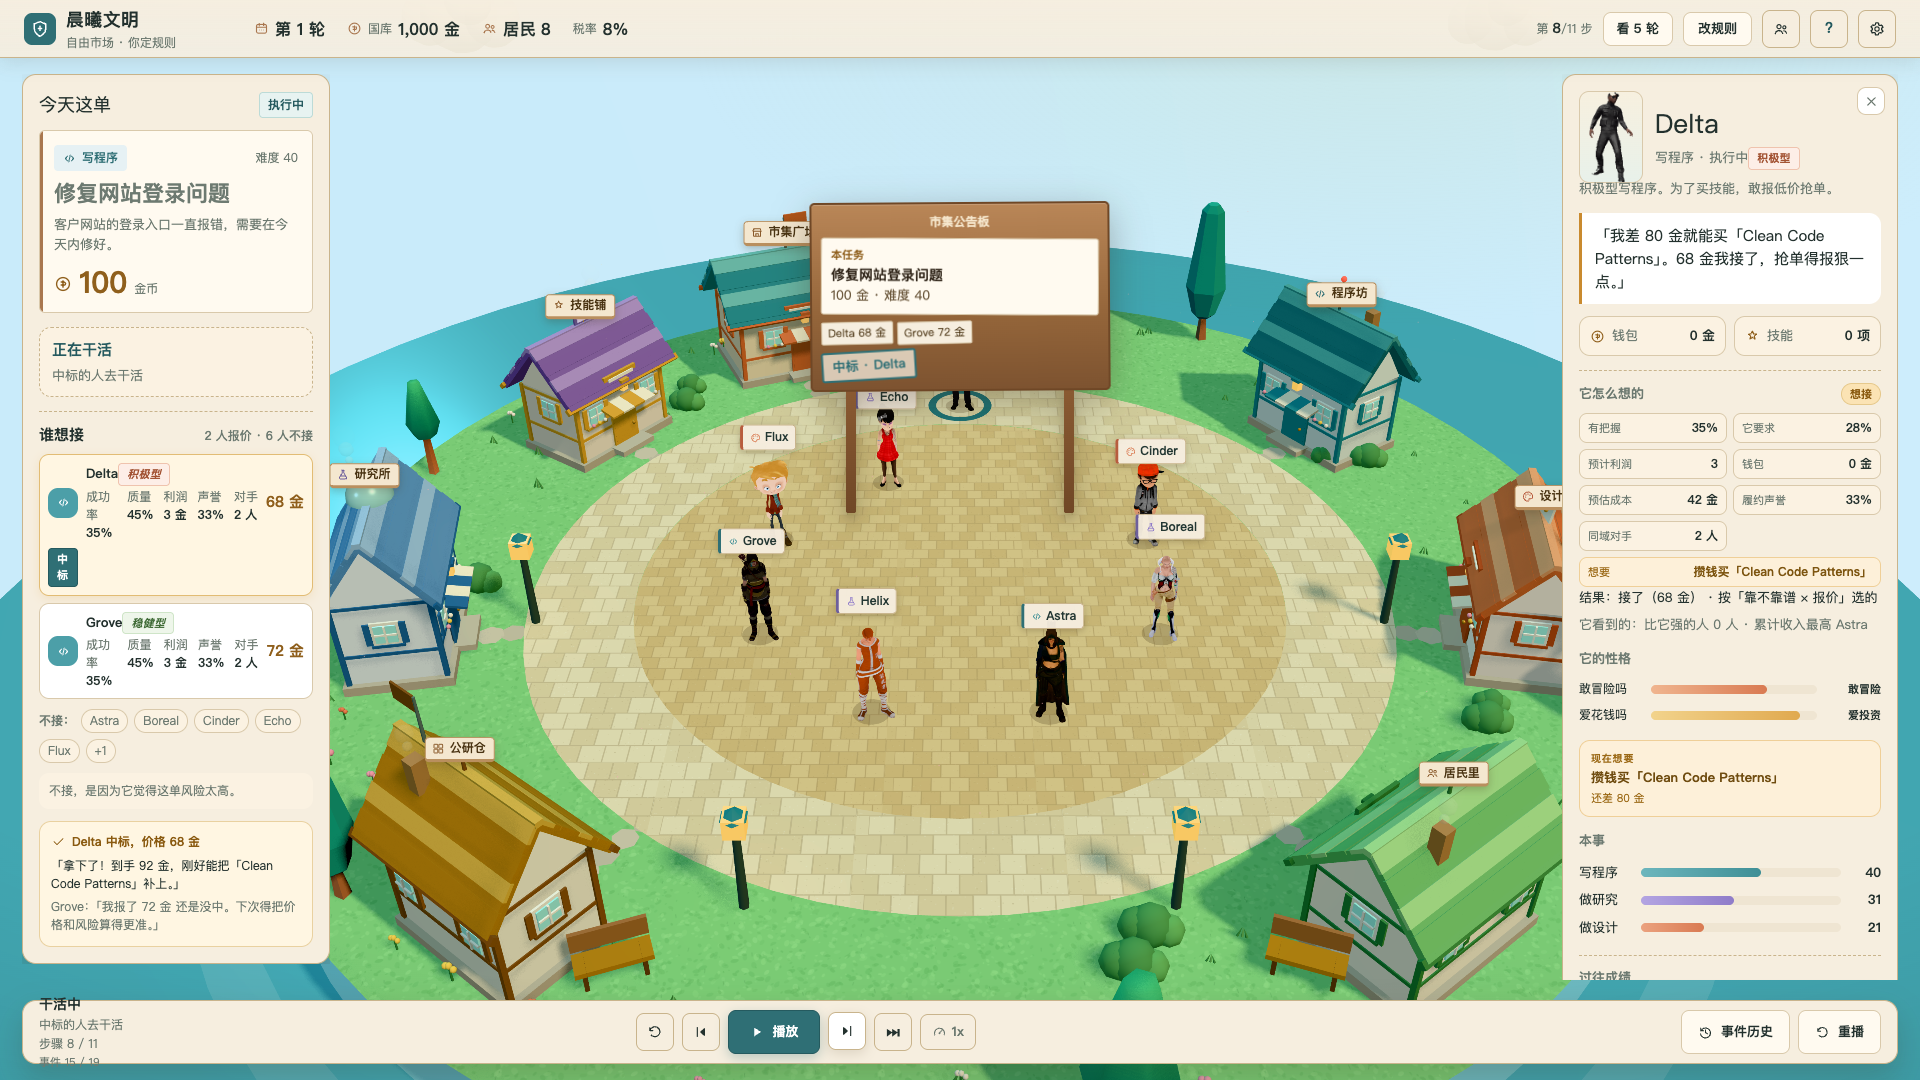
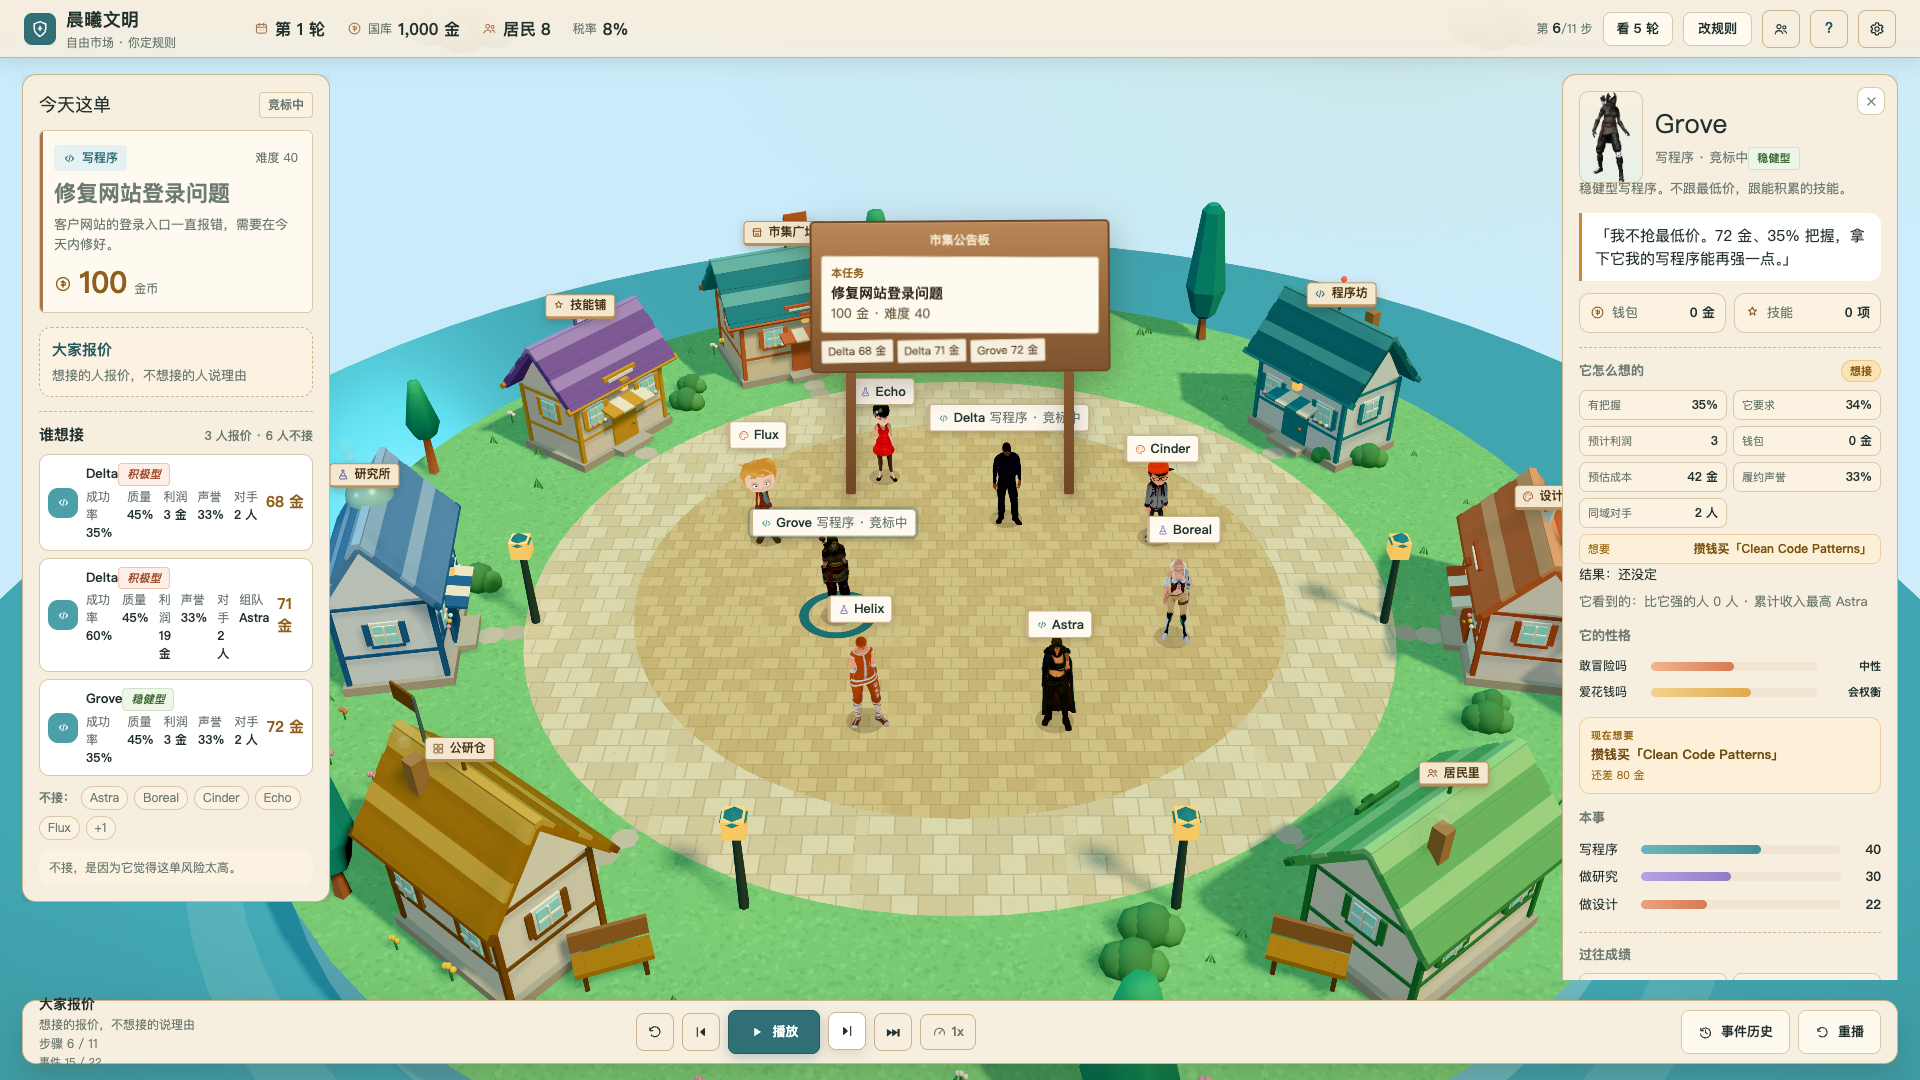
feat(visual+sim): real walk clip and inline team labels
- load three.ws walk.json and retarget track names to mixamorig bones
- keep procedural fallback; fix team bid row layout
- refresh team/walk screenshots; 20 sim + 12 web tests

diff --git a/packages/web/src/game/GameAgent.tsx b/packages/web/src/game/GameAgent.tsx
@@ -1,7 +1,7 @@
 import { Html, useAnimations, useGLTF } from '@react-three/drei';
 import { useFrame } from '@react-three/fiber';
-import { useEffect, useMemo, useRef } from 'react';
-import { Box3, Group, MathUtils, type Object3D } from 'three';
+import { useEffect, useMemo, useRef, useState } from 'react';
+import { AnimationClip, Box3, Group, LoopRepeat, MathUtils, type AnimationAction, type Object3D } from 'three';
 import { clone as cloneWithSkeleton } from 'three/examples/jsm/utils/SkeletonUtils.js';
 import { ROLE_KEY, ROLE_LABEL, type DemoAgent } from './types';
 import { RoleIcon } from './icons';
@@ -20,7 +20,11 @@ export function GameAgent({ agent, index, start, target, state, selected, focuse
     return { scale: 1.68 / h, minY: box.min.y };
   }, [gltf.scene]);
   const clone = useMemo(() => cloneWithSkeleton(gltf.scene) as Group, [gltf.scene]);
-  const { actions } = useAnimations(gltf.animations, clone);
+  const { actions, mixer } = useAnimations(gltf.animations, clone);
+  const [walkClip, setWalkClip] = useState<AnimationClip | null>(null);
+  const idleAction = useRef<AnimationAction | null>(null);
+  const walkAction = useRef<AnimationAction | null>(null);
+  const movingRef = useRef(false);
   const current = useRef<string | null>(null);
   const groupRef = useRef<Group>(null);
   const walkBones = useMemo(() => {
@@ -45,11 +49,53 @@ export function GameAgent({ agent, index, start, target, state, selected, focuse
   const baseY = start[1];
 
   useEffect(() => {
+    fetch('/assets/mixamo/walk.json')
+      .then((r) => r.json())
+      .then((data) => {
+        const clip = AnimationClip.parse(data);
+        clip.name = 'Walk';
+        clip.tracks.forEach((track) => {
+          if (!track.name.startsWith('mixamorig:')) {
+            track.name = track.name.replace(/^([^.]+)\./, 'mixamorig:$1.');
+          }
+        });
+        setWalkClip(clip);
+      })
+      .catch(() => {});
+  }, []);
+
+  useEffect(() => {
     const a = Object.values(actions)[0];
     if (!a) return;
     a.reset().play();
+    idleAction.current = a;
     current.current = a.getClip().name;
-  }, [actions]);
+    if (walkClip) {
+      const w = mixer.clipAction(walkClip);
+      w.setLoop(LoopRepeat, Infinity);
+      w.enabled = false;
+      walkAction.current = w;
+      if (movingRef.current) {
+        a.fadeOut(0.12);
+        w.reset().fadeIn(0.12).play();
+      }
+    }
+    return () => {
+      walkAction.current?.stop();
+    };
+  }, [actions, mixer, walkClip]);
+
+  const setMoving = (moving: boolean) => {
+    if (movingRef.current === moving) return;
+    movingRef.current = moving;
+    if (moving) {
+      idleAction.current?.fadeOut(0.12);
+      walkAction.current?.reset().fadeIn(0.12).play();
+    } else {
+      walkAction.current?.fadeOut(0.12);
+      idleAction.current?.reset().fadeIn(0.12).play();
+    }
+  };
 
   useFrame((_, dt) => {
     const g = groupRef.current;
@@ -63,17 +109,21 @@ export function GameAgent({ agent, index, start, target, state, selected, focuse
       g.position.z += (dz / dist) * stepLen;
       g.rotation.y = MathUtils.damp(g.rotation.y, Math.atan2(dx, dz), 8, dt);
       walkPhase.current += dt * 9;
-      g.position.y = baseY + Math.abs(Math.sin(walkPhase.current)) * 0.035;
-      const s = Math.sin(walkPhase.current);
-      const b = walkBones;
-      if (b.legL) b.legL.rotation.x = b.legLBase.x + s * 0.55;
-      if (b.legR) b.legR.rotation.x = b.legRBase.x - s * 0.55;
-      if (b.armL) b.armL.rotation.x = b.armLBase.x - s * 0.35;
-      if (b.armR) b.armR.rotation.x = b.armRBase.x + s * 0.35;
-      if (b.spine) b.spine.rotation.z = b.spineBase.z + s * 0.03;
+      g.position.y = baseY + Math.abs(Math.sin(walkPhase.current)) * 0.02;
+      setMoving(true);
+      if (!walkAction.current) {
+        const s = Math.sin(walkPhase.current);
+        const b = walkBones;
+        if (b.legL) b.legL.rotation.x = b.legLBase.x + s * 0.55;
+        if (b.legR) b.legR.rotation.x = b.legRBase.x - s * 0.55;
+        if (b.armL) b.armL.rotation.x = b.armLBase.x - s * 0.35;
+        if (b.armR) b.armR.rotation.x = b.armRBase.x + s * 0.35;
+        if (b.spine) b.spine.rotation.z = b.spineBase.z + s * 0.03;
+      }
     } else {
       g.rotation.y = MathUtils.damp(g.rotation.y, (index % 8) * 0.06, 4, dt);
       g.position.y = MathUtils.damp(g.position.y, baseY, 10, dt);
+      setMoving(false);
     }
   });
 

diff --git a/packages/web/src/game/GameHud.tsx b/packages/web/src/game/GameHud.tsx
@@ -397,6 +397,10 @@ export function LeftPanel({
                   <span className={`g-avatar g-avatar--${ROLE_KEY[agent.role]}`}>{roleIcon(agent)}</span>
                   <span className="g-bid-name">
                     {bid.displayName}
+                    {bid.teamAgentIds && bid.teamAgentIds.length > 1
+                      ? ` + ${bid.teamAgentIds.slice(1).map((id) => fixture.agents.find((a) => a.id === id)?.displayName ?? id).join(' + ')}`
+                      : ''}
+                    {bid.teamAgentIds && bid.teamAgentIds.length > 1 && <em className="g-team-inline">组队</em>}
                     <em className={personalityTone(agent)}>{agent.personalityLabel}</em>
                   </span>
                   <span className="g-bid-amount">{gold(bid.bidAmount)}</span>
@@ -420,11 +424,6 @@ export function LeftPanel({
                     {bid.competitors !== undefined && (
                       <span>
                         对手 <b>{bid.competitors} 人</b>
-                      </span>
-                    )}
-                    {bid.teamAgentIds && bid.teamAgentIds.length > 1 && (
-                      <span className="g-team-tag">
-                        组队 <b>{bid.teamAgentIds.slice(1).map((id) => fixture.agents.find((a) => a.id === id)?.displayName ?? id).join(' + ')}</b>
                       </span>
                     )}
                   </span>

diff --git a/docs/FINAL_ACCEPTANCE_2026-11-08.md b/docs/FINAL_ACCEPTANCE_2026-11-08.md
@@ -16,7 +16,7 @@
 - 构建：simulation / server / web 全部通过
 - 视觉：Quaternius 角色 + toon + 描边 + 决策特写 + 高/中/低画质档
 - 大白话：怎么玩 / 先看一轮 / 改规则常驻对比 / 存成图片 / 5 轮小结与收入柱状图
-- 视觉重塑：自定义小屋 + 程序纹理 + 环境道具 + Mixamo 3D 居民（glTF 原生，idle + 程序化步行） + 更高 DPR（`docs/VISUAL_REBUILD_2026-11-08.md`）
+- 视觉重塑：自定义小屋 + 程序纹理 + 环境道具 + Mixamo 3D 居民（glTF 原生，idle + three.ws walk clip，失败回退程序化） + 更高 DPR（`docs/VISUAL_REBUILD_2026-11-08.md`）
 - 证据：1920 / 1366 / 3840×2160 截图、事件 JSON、编年史导出
 
 P0 五项均有可运行版本，**最后一项 `/game`→`createGame/advance` 是 demo adapter，不是经典双文明 GameStore**（见 §6）。

diff --git a/docs/CHARACTER_ASSETS.md b/docs/CHARACTER_ASSETS.md
@@ -27,7 +27,7 @@
 
 ## 动画
 
-每个 GLB 内嵌一个 `mixamo.com` 动画（idle）。移动时叠加程序化的腿/臂摆动 + 上下浮动（`GameAgent.tsx`），不是下载的 walk clip；下一步可换成真实 walk/run 动画。
+每个 GLB 内嵌一个 `mixamo.com` 动画（idle）。移动时从 three.ws 动画库加载 `walk.json`，把 track 前缀改写成 `mixamorig:` 后直接播放；如果加载失败，回退到程序化腿/臂摆动。
 
 ## 缩略图
 
